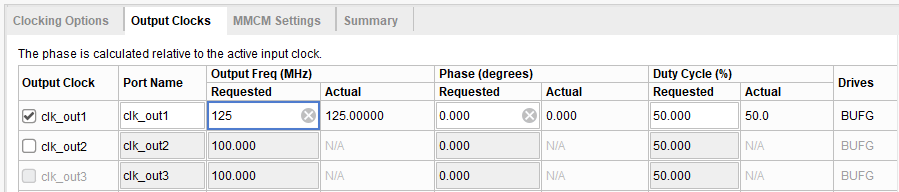
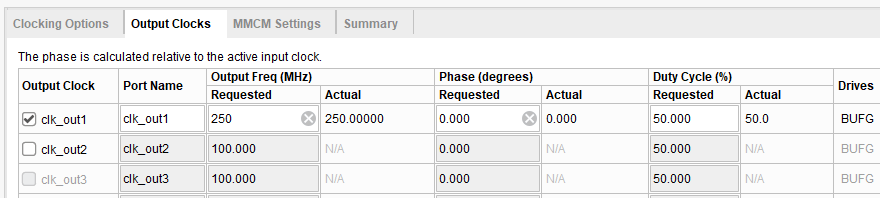
Fixed typos, added FREQ_HZ parameter to axis_red_pitaya_dac.v

diff --git a/Tutorials/CORE_DAC_AXIS/README.md b/Tutorials/CORE_DAC_AXIS/README.md
@@ -40,6 +40,7 @@ Next we have a set of outputs to the DAC:
 
 ```verilog
 // DAC signals
+(* X_INTERFACE_PARAMETER = "FREQ_HZ 250000000" *)
 output wire                        dac_clk,
 output wire                        dac_rst,
 output wire                        dac_sel,
@@ -51,6 +52,8 @@ output wire [DAC_DATA_WIDTH-1:0]   dac_dat,
 * `dac_rst` is a reset signal, which sets the DAC output to zero (see 10.2.2 of the [DAC's data sheet](https://www.renesas.com/us/en/document/dst/dac1401d125-datasheet)). The code will send this signal if the *Clocking Wizard* sends *locked=0*, or if the *AXIS* input signal is invalid.
 * `dac_sel` selects which of the two DAC outputs the data should be sent to. The code will make this oscillate between 0 and 1 at 250MHz, so that both DAC outputs are active.
 * `dac_dat` is a vector of length *DAC_DATA_WIDTH* which carries the data to the DAC. The reason for the '-1' is because a vector of length 14 is indexed [13:0].
+
+* From the name `dac_clk`, Vivado infers that this output carries a clock signal. Vivado likes to know the lock frequency that this will carry, so we tell it that this will be 250MHz with the line `(* X_INTERFACE_PARAMETER = "FREQ_HZ 250000000" *)`. The code will work just fine if you remove this, however when you import the module Vivado will show a warning complaining that it doesn't know the clock speed.
 
 Finally we have the wires which handle the *AXIS* connection, accepting data from the *Direct Digital Synthesiser*:
 
@@ -64,6 +67,8 @@ input  wire                        s_axis_tvalid
 - `s_axis_tready` sends a signal to the *DDS* that this block is ready to accept data.
 - `s_axis_tdata` accepts the data from the *DDS*.
 - `s_axis_tvalid` carries the signal from the *DDS* that it's output data is valid.
+
+These are standard names for an AXI port, so in the Block Diagram Vivado automatically groups these into *s_axis*.
 
 ##  Initial connections
 

diff --git a/Tutorials/PROJ_IOSignalGeneration/README.md b/Tutorials/PROJ_IOSignalGeneration/README.md
@@ -57,7 +57,7 @@ In the left of the *Customize block* dialog, you can see the block inputs and ou
 
 #### Other DDS settings
 
-We need to tweak the DDS block a bit more. In the *Configuration* tab, set the *System Clock* to 125MHz to match our Pitaya:
+We need to tweak the DDS block a bit more. In the *Configuration* tab, set the *System Clock* to 250MHz to match our Pitaya:
 
 ![Under heading System Requirements, System Clock (MHz) has been set to 125](img_SystemClockCustomisation.png)
 
@@ -95,7 +95,7 @@ Click *Add IP*, and choose *Clocking Wizard*:
 
 ![](img_ClockingWizardInputFreq.png)
 
-Next go to the *Output Clocks* tab. At the top set the *clk_out1* *Output Freq* to 125MHz:
+Next go to the *Output Clocks* tab. At the top set the *clk_out1* *Output Freq* to 250MHz:
 
 ![](img_OutputClockFreq.png)
 
